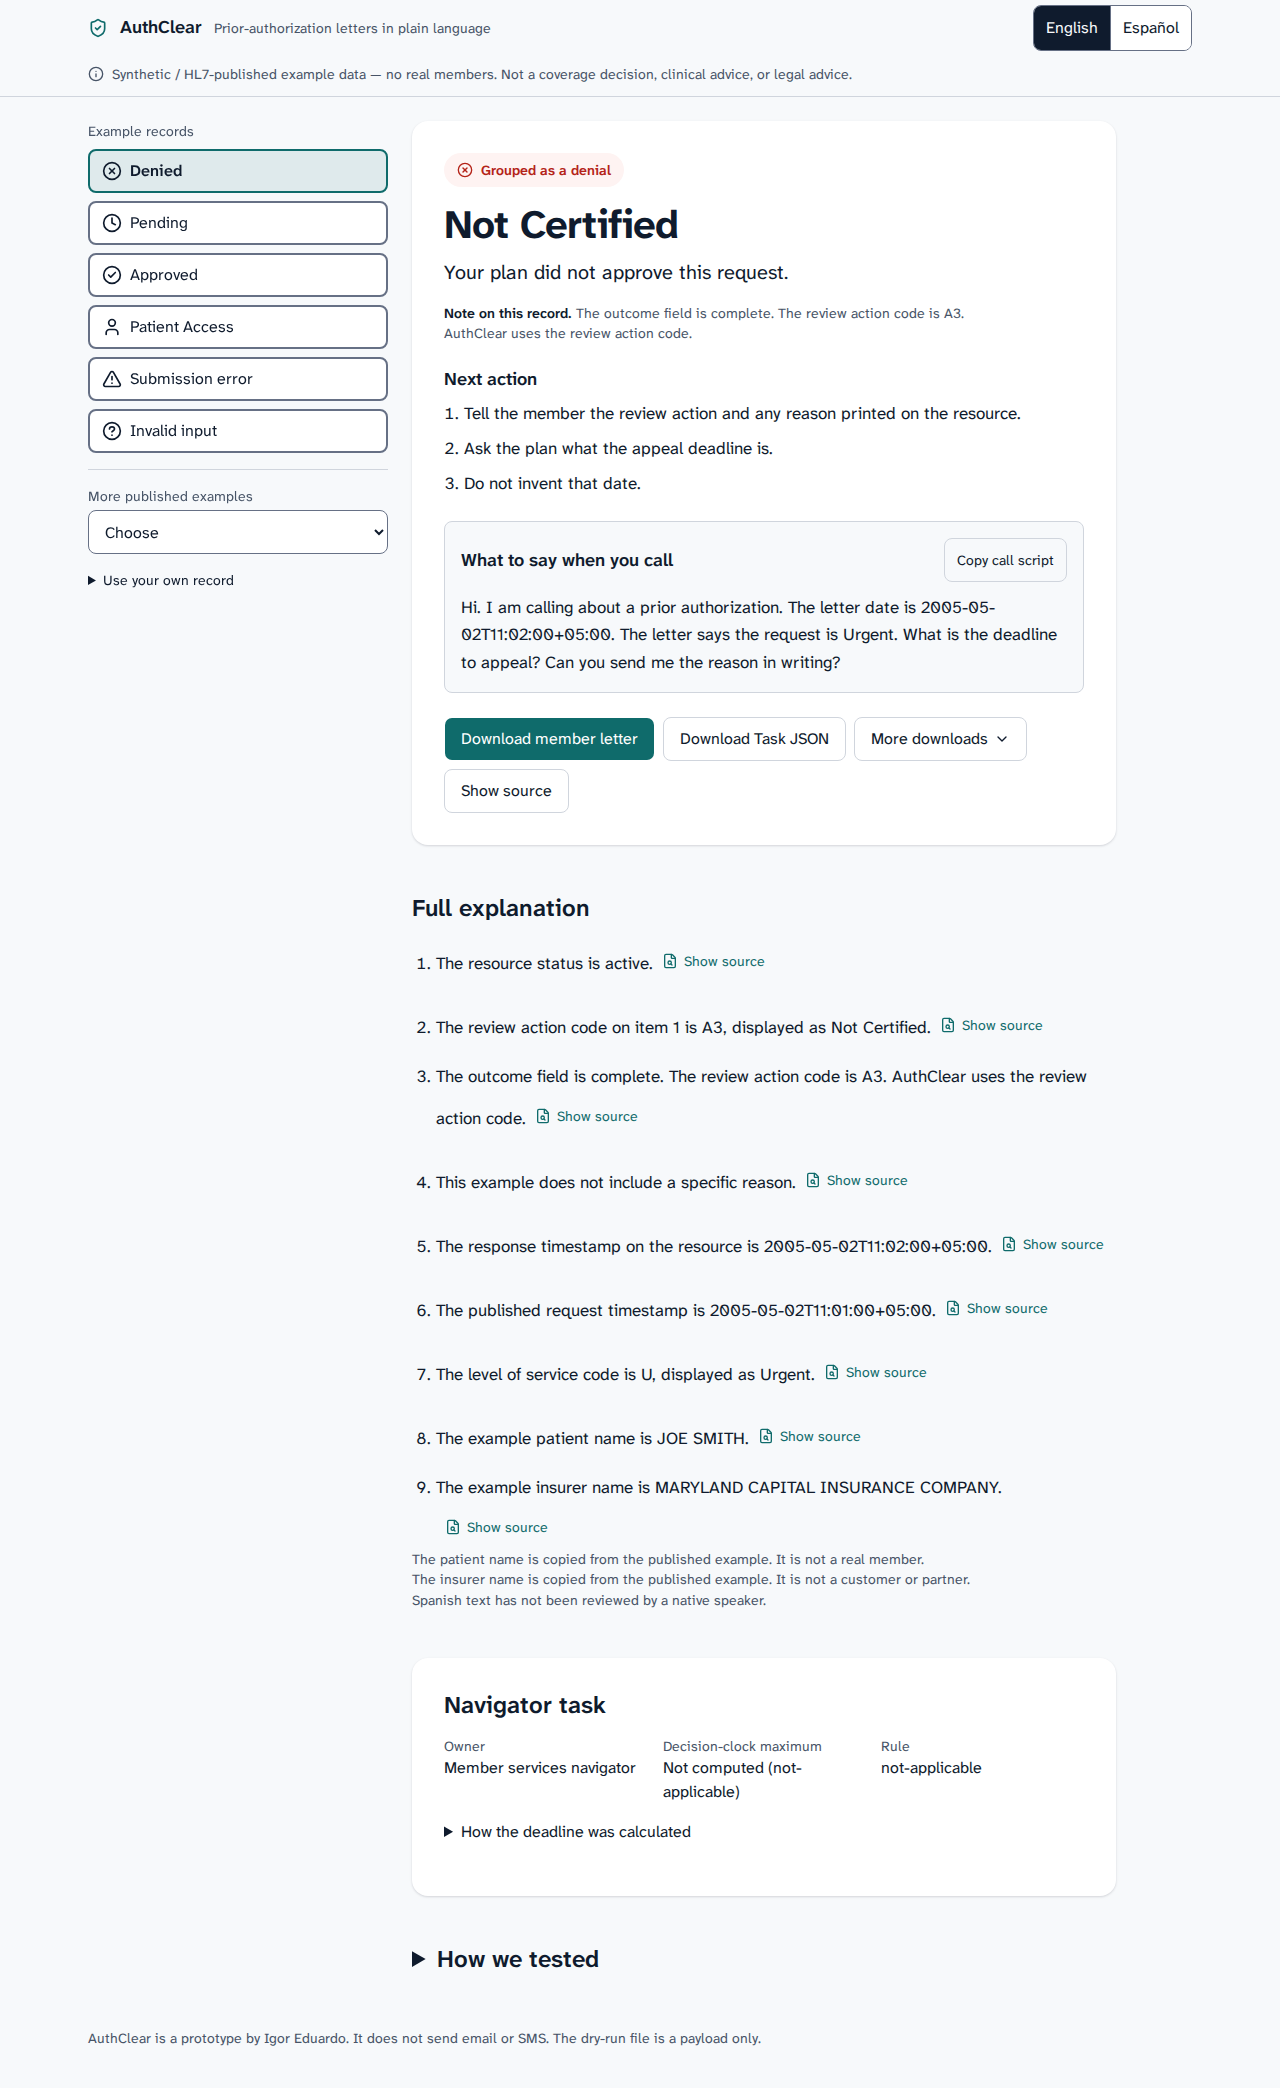
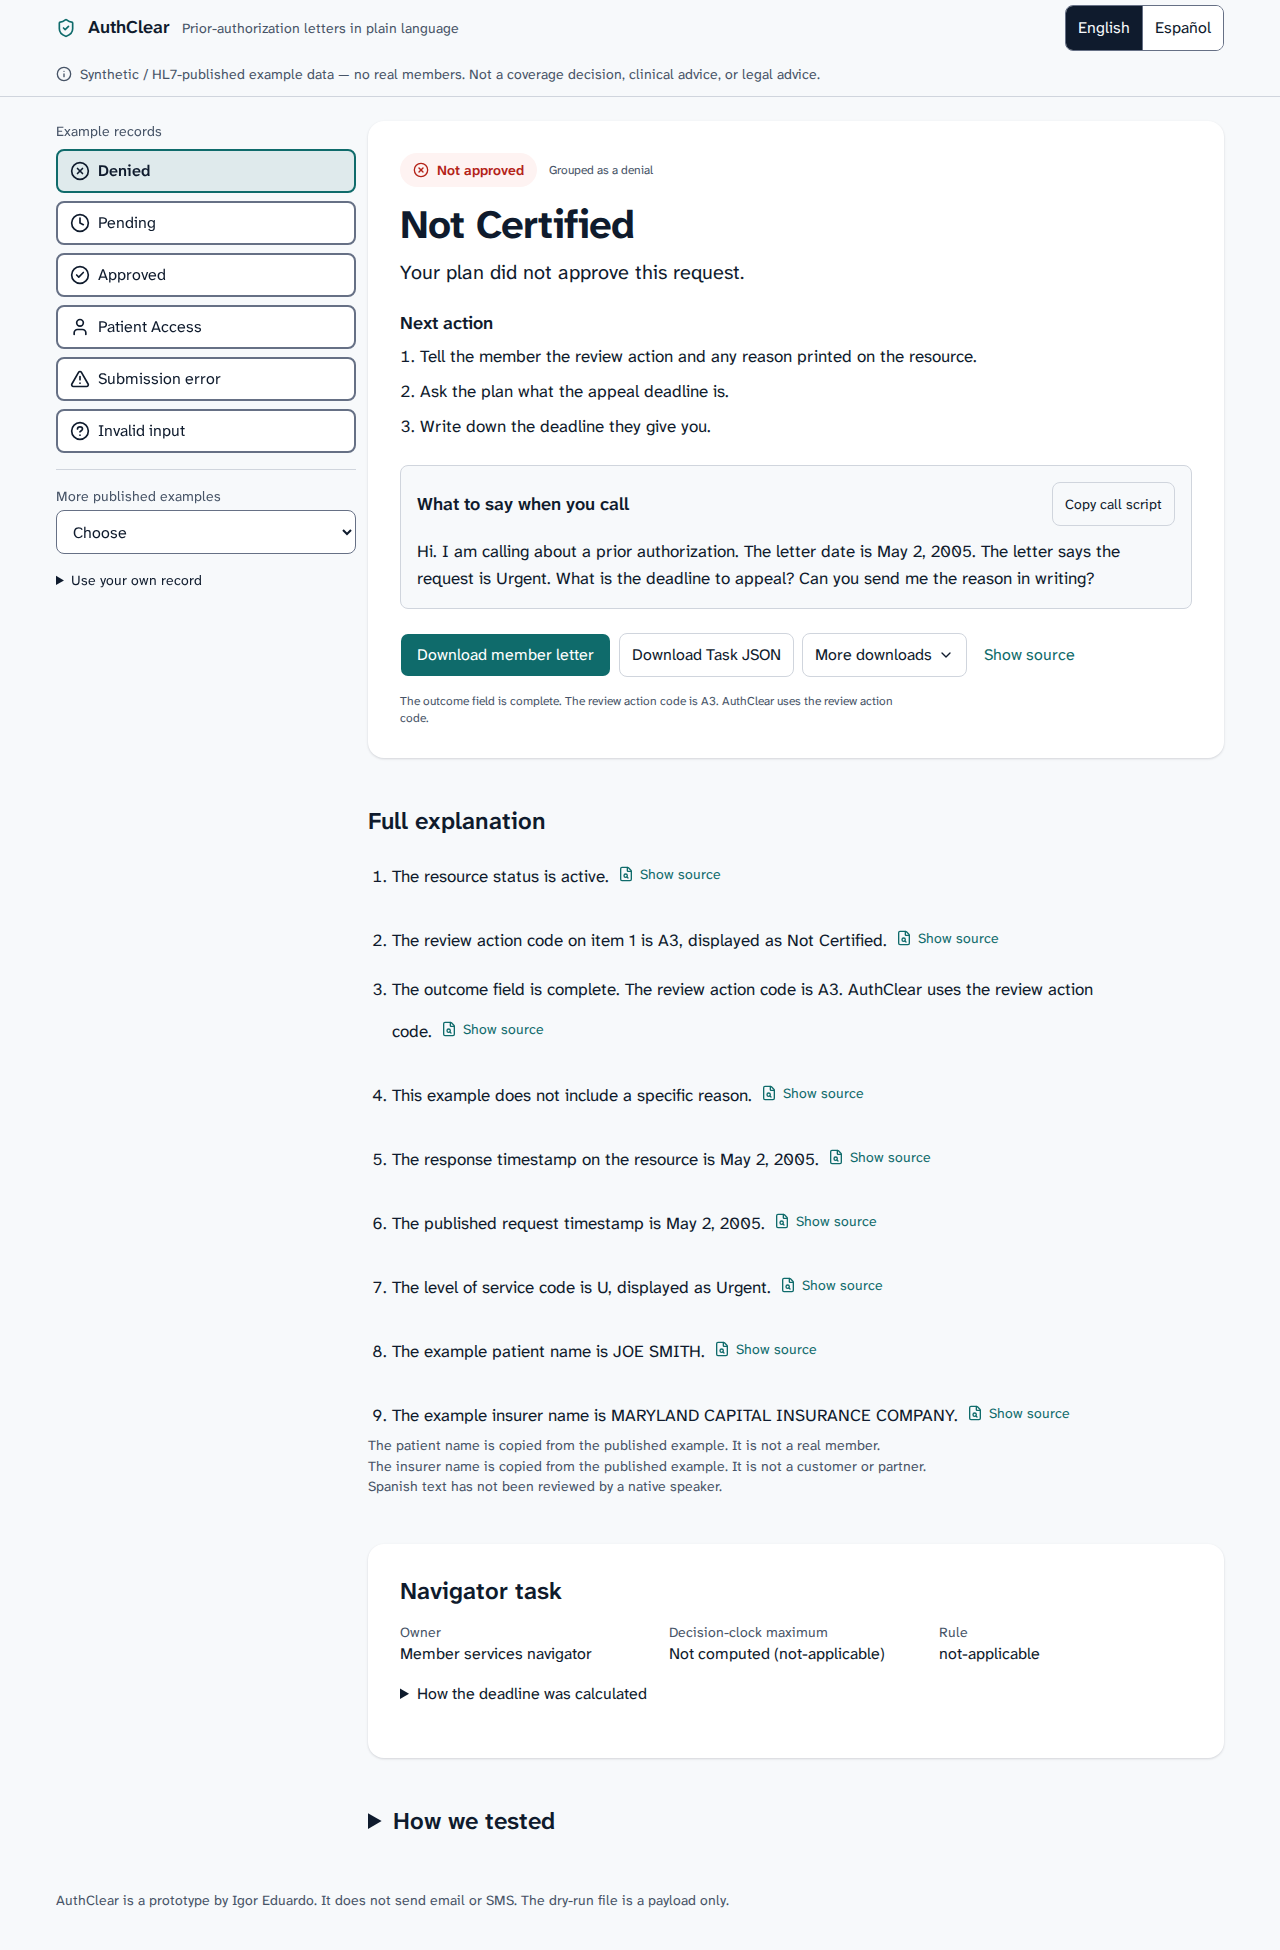
Make the decision card readable at a glance.
Spell dates in words, say Not approved on the status badge, and keep the four actions on one row.

diff --git a/src/components/ResultCard.tsx b/src/components/ResultCard.tsx
@@ -2,7 +2,6 @@ import { useState } from "react";
 import { ChevronDown } from "lucide-react";
 import type { Decision } from "@/lib/types";
 import type { CallScript } from "@/lib/callScript";
-import { formatTimestamp } from "@/lib/formatTime";
 import { Badge } from "@/components/ui/badge";
 import { Button } from "@/components/ui/button";
 import { Card } from "@/components/ui/card";
@@ -52,7 +51,7 @@ export function ResultCard({
   const [copied, setCopied] = useState(false);
   const status = STATUS_STYLE[decision];
   const Icon = status.icon;
-  const humanDue = due ? formatTimestamp(due) : null;
+  const badgeText = decision === "denied" ? (lang === "es" ? "No aprobado" : "Not approved") : kicker;
 
   async function copyScript() {
     try {
@@ -66,29 +65,19 @@ export function ResultCard({
 
   return (
     <Card id="decision" aria-live="polite" className="min-w-0 p-4 md:p-8">
-      <Badge lang={lang} className={`h-auto gap-2 rounded-full px-3 py-1.5 text-sm font-semibold ${status.badge}`}>
-        <Icon aria-hidden="true" />
-        {kicker}
-      </Badge>
+      <div className="flex flex-wrap items-center gap-x-3 gap-y-1">
+        <Badge lang={lang} className={`h-auto gap-2 rounded-full px-3 py-1.5 text-sm font-semibold ${status.badge}`}>
+          <Icon aria-hidden="true" />
+          {badgeText}
+        </Badge>
+        {badgeText !== kicker ? <p className="m-0 text-xs text-muted-foreground">{kicker}</p> : null}
+      </div>
       <h2 className="mt-4 mb-0 text-[2rem] leading-[1.1] font-bold tracking-[-0.02em] md:text-[2.5rem]">
         {headline}
       </h2>
       <p lang={lang} className="mt-3 mb-0 max-w-[65ch] text-xl leading-snug">
         {lead}
       </p>
-      {conflict ? (
-        <p lang={lang} className="mt-4 mb-0 max-w-[65ch] text-sm leading-[1.45] text-muted-foreground">
-          <span className="font-semibold text-foreground">Note on this record. </span>
-          {conflict}
-        </p>
-      ) : null}
-      {due ? (
-        <p className="mt-4 mb-0 text-base">
-          <span className="text-muted-foreground">Decision-clock maximum </span>
-          <span>{humanDue ?? due}</span>
-          {humanDue ? <span className="mt-1 block font-mono text-[0.8125rem] text-muted-foreground">{due}</span> : null}
-        </p>
-      ) : null}
       <div className="mt-6">
         <h3 className="mt-0 mb-2 text-[1.125rem] leading-[1.35] font-semibold">Next action</h3>
         <ol lang={lang} className="my-0 flex max-w-[65ch] list-decimal flex-col gap-2 pl-5 text-[1.0625rem] leading-[1.6] wrap-break-word">
@@ -113,16 +102,16 @@ export function ResultCard({
           </p>
         </div>
       ) : null}
-      <div className="order-1 mt-4 flex flex-col gap-2 md:order-2 md:mt-6 md:flex-row md:flex-wrap">
-        <Button type="button" className="min-h-11 w-full px-4 text-base md:w-auto" onClick={onLetter}>
+      <div className="order-1 mt-4 flex flex-col gap-2 md:order-2 md:mt-6 md:flex-row md:flex-nowrap md:items-center">
+        <Button type="button" className="min-h-11 w-full shrink-0 px-4 text-base md:w-auto" onClick={onLetter}>
           Download member letter
         </Button>
-        <Button type="button" variant="outline" className="min-h-11 bg-surface px-4 text-base" onClick={onTask}>
+        <Button type="button" variant="outline" className="min-h-11 shrink-0 bg-surface px-3 text-base" onClick={onTask}>
           Download Task JSON
         </Button>
         <DropdownMenu>
           <DropdownMenuTrigger asChild>
-            <Button type="button" variant="outline" className="min-h-11 bg-surface px-4 text-base">
+            <Button type="button" variant="outline" className="min-h-11 shrink-0 bg-surface px-3 text-base">
               More downloads
               <ChevronDown aria-hidden="true" />
             </Button>
@@ -139,10 +128,16 @@ export function ResultCard({
             </DropdownMenuItem>
           </DropdownMenuContent>
         </DropdownMenu>
-        <Button type="button" variant="outline" className="min-h-11 bg-surface px-4 text-base" onClick={onShowSource}>
+        <Button type="button" variant="ghost" className="min-h-11 shrink-0 px-2 text-base text-primary" onClick={onShowSource}>
           Show source
         </Button>
       </div>
+      {conflict ? (
+        <p lang={lang} className="order-3 mt-4 mb-0 max-w-[65ch] text-xs leading-snug text-muted-foreground">
+          {conflict}
+        </p>
+      ) : null}
+      {due ? <p className="order-3 mt-1 mb-0 text-xs text-muted-foreground">{due}</p> : null}
     </Card>
   );
 }

diff --git a/src/App.tsx b/src/App.tsx
@@ -8,7 +8,7 @@ import { buildExports } from "@/lib/task";
 import { buildCallScript } from "@/lib/callScript";
 import { plainLead } from "@/lib/plain";
 import { splitSteps } from "@/lib/steps";
-import { formatTimestamp } from "@/lib/formatTime";
+import { formatPlainDate, humanizeTimestamps, memberFacingStep } from "@/lib/formatTime";
 import { withLetterStyles } from "@/lib/letterStyle";
 import type { Pointer } from "@/lib/types";
 import summary from "@/generated/eval-summary.json";
@@ -70,7 +70,7 @@ export function App() {
         Skip to decision
       </a>
       <header className="border-b border-border bg-background">
-        <div className="mx-auto flex h-14 max-w-6xl items-center gap-3 px-4 md:px-6">
+        <div className="mx-auto flex h-14 max-w-[76rem] items-center gap-3 px-4 md:px-6">
           <ShieldCheck className="size-5 shrink-0 text-primary" aria-hidden="true" />
           <h1 className="m-0 text-[1.125rem] leading-[1.3] font-semibold">AuthClear</h1>
           <p className="m-0 hidden text-sm text-muted-foreground md:block">
@@ -95,7 +95,7 @@ export function App() {
             </button>
           </div>
         </div>
-        <p className="mx-auto mt-0 mb-0 flex max-w-6xl items-start gap-2 px-4 pt-2 pb-3 text-sm leading-[1.45] text-muted-foreground md:px-6">
+        <p className="mx-auto mt-0 mb-0 flex max-w-[76rem] items-start gap-2 px-4 pt-2 pb-3 text-sm leading-[1.45] text-muted-foreground md:px-6">
           <Info className="mt-0.5 size-4 shrink-0" aria-hidden="true" />
           <span>
             Synthetic / HL7-published example data — no real members. Not a coverage decision, clinical advice, or
@@ -103,7 +103,7 @@ export function App() {
           </span>
         </p>
       </header>
-      <main className="mx-auto grid w-full max-w-6xl min-w-0 gap-4 px-4 py-4 md:grid-cols-[300px_minmax(0,44rem)] md:gap-6 md:px-6 md:py-6">
+      <main className="mx-auto grid w-full max-w-[76rem] min-w-0 gap-4 px-4 py-4 md:grid-cols-[280px_minmax(0,1fr)] md:gap-8 md:px-6 md:py-6">
         <ExampleRail
           caseId={customResource === undefined ? caseId : ""}
           narrow={narrow}
@@ -144,7 +144,7 @@ export function App() {
               <ol lang={lang} className="my-0 flex list-decimal flex-col gap-4 pl-6">
                 {view.notice.sentences.map((sentence) => (
                   <li key={sentence.id} className="max-w-[65ch] text-[1.0625rem] leading-[1.6]">
-                    <span>{sentence.text}</span>
+                    <span>{humanizeTimestamps(sentence.text, lang)}</span>
                     <Button
                       type="button"
                       variant="ghost"
@@ -186,12 +186,7 @@ export function App() {
                 <dt className="text-sm text-muted-foreground">Decision-clock maximum</dt>
                 <dd className="m-0 text-base">
                   {view.action.deadline.due ? (
-                    <>
-                      <span>{formatTimestamp(view.action.deadline.due) ?? view.action.deadline.due}</span>
-                      <span className="mt-1 block font-mono text-[0.8125rem] text-muted-foreground">
-                        {view.action.deadline.due}
-                      </span>
-                    </>
+                    <span>{formatPlainDate(view.action.deadline.due, lang) ?? view.action.deadline.due}</span>
                   ) : (
                     `Not computed (${view.action.deadline.ruleId})`
                   )}
@@ -263,7 +258,7 @@ export function App() {
           </details>
         </div>
       </main>
-      <footer className="mx-auto max-w-6xl px-4 pt-4 pb-10 text-sm text-muted-foreground md:px-6">
+      <footer className="mx-auto max-w-[76rem] px-4 pt-4 pb-10 text-sm text-muted-foreground md:px-6">
         <p>AuthClear is a prototype by Igor Eduardo. It does not send email or SMS. The dry-run file is a payload only.</p>
       </footer>
       <SourceSheet
@@ -315,7 +310,7 @@ function buildView(demo: DemoCase, lang: Lang) {
     exports,
     lead: plainLead(extraction, lang),
     script: buildCallScript(extraction, lang),
-    steps: splitSteps(lang === "es" ? action.summaryEs : action.summaryEn),
+    steps: splitSteps(lang === "es" ? action.summaryEs : action.summaryEn).map((step) => memberFacingStep(step, lang)),
     conflict: conflictSentence?.text ?? null,
   };
 }

diff --git a/test/plain-copy.test.ts b/test/plain-copy.test.ts
@@ -2,7 +2,7 @@ import { describe, expect, it } from "vitest";
 import { CASES } from "../src/lib/cases";
 import { buildCallScript } from "../src/lib/callScript";
 import { extract } from "../src/lib/extract";
-import { formatTimestamp } from "../src/lib/formatTime";
+import { formatPlainDate, formatTimestamp } from "../src/lib/formatTime";
 import { withLetterStyles } from "../src/lib/letterStyle";
 import { getByPath } from "../src/lib/path";
 import { leadCatalog, plainLead } from "../src/lib/plain";
@@ -54,11 +54,18 @@ describe("call script", () => {
         if (!extraction.urgent) expect(script.lines.some((line) => line.id === "urgent")).toBe(false);
 
         const allowed = new Set(script.lines.flatMap((line) => (line.pointer?.value ? [line.pointer.value] : [])));
+        expect(script.text).not.toMatch(/\d{4}-\d{2}-\d{2}T/);
         for (const line of script.lines) {
           if (!line.pointer) continue;
           expect(line.pointer.path.length).toBeGreaterThan(0);
-          expect(line.text).toContain(String(line.pointer.value));
           expect(readPointer(demo, line.pointer)).toBe(line.pointer.value);
+          if (line.id === "date") {
+            const spoken = formatPlainDate(String(line.pointer.value), lang);
+            expect(spoken).not.toBeNull();
+            expect(line.text).toContain(spoken!);
+          } else {
+            expect(line.text).toContain(String(line.pointer.value));
+          }
         }
         for (const value of candidateValues(extraction)) {
           if (script.text.includes(value)) expect(allowed.has(value)).toBe(true);
@@ -78,8 +85,10 @@ describe("call script", () => {
 });
 
 describe("timestamp formatting", () => {
-  it("keeps the offset printed on the record", () => {
+  it("keeps the offset printed on the record and spells the calendar date", () => {
     expect(formatTimestamp("2005-05-05T11:01:00+05:00")).toBe("Thu, May 5, 2005, 11:01 AM (UTC+5)");
+    expect(formatPlainDate("2005-05-02T11:02:00+05:00", "en")).toBe("May 2, 2005");
+    expect(formatPlainDate("2005-05-02T11:02:00+05:00", "es")).toBe("2 de mayo de 2005");
   });
 });
 

diff --git a/src/lib/formatTime.ts b/src/lib/formatTime.ts
@@ -19,6 +19,48 @@ export function formatTimestamp(iso: string): string | null {
   return `${weekday}, ${monthName} ${day}, ${year}, ${hour12}:${minute} ${ampm} (${zoneLabel(offset)})`;
 }
 
+const MONTHS_ES = [
+  "enero",
+  "febrero",
+  "marzo",
+  "abril",
+  "mayo",
+  "junio",
+  "julio",
+  "agosto",
+  "septiembre",
+  "octubre",
+  "noviembre",
+  "diciembre",
+];
+
+const ISO_TIMESTAMP = /\d{4}-\d{2}-\d{2}T\d{2}:\d{2}(?::\d{2})?(?:\.\d+)?(?:Z|[+-]\d{2}:\d{2})/g;
+
+/** Calendar date from an ISO timestamp, for example "May 2, 2005". */
+export function formatPlainDate(iso: string, lang: "en" | "es" = "en"): string | null {
+  const match = iso.match(/^(\d{4})-(\d{2})-(\d{2})T/);
+  if (!match) return null;
+  const year = Number(match[1]);
+  const month = Number(match[2]);
+  const day = Number(match[3]);
+  if (month < 1 || month > 12 || day < 1 || day > 31) return null;
+  if (lang === "es") return `${day} de ${MONTHS_ES[month - 1]} de ${year}`;
+  return `${MONTHS[month - 1]} ${day}, ${year}`;
+}
+
+/** Replace raw ISO timestamps with a calendar date. Unparsed timestamps stay unchanged. */
+export function humanizeTimestamps(text: string, lang: "en" | "es"): string {
+  return text.replace(ISO_TIMESTAMP, (iso) => formatPlainDate(iso, lang) ?? iso);
+}
+
+/** Member-facing wording for a navigator summary step. */
+export function memberFacingStep(step: string, lang: "en" | "es"): string {
+  const spoken = step
+    .replace("Do not invent that date.", "Write down the deadline they give you.")
+    .replace("No invente esa fecha.", "Anote la fecha límite que le den.");
+  return humanizeTimestamps(spoken, lang);
+}
+
 function zoneLabel(offset: string): string {
   if (offset === "Z") return "UTC";
   const sign = offset[0] ?? "+";

diff --git a/src/lib/callScript.ts b/src/lib/callScript.ts
@@ -1,3 +1,4 @@
+import { formatPlainDate } from "./formatTime";
 import type { Extraction, Pointer } from "./types";
 
 export interface ScriptLine {
@@ -30,10 +31,11 @@ export function buildCallScript(extraction: Extraction, lang: "en" | "es"): Call
         pointer: fieldPointer(extraction.authId),
       });
     }
-    if (extraction.responseCreated) {
+    const englishDate = extraction.responseCreated ? formatPlainDate(extraction.responseCreated.value, "en") : null;
+    if (extraction.responseCreated && englishDate) {
       lines.push({
         id: "date",
-        text: `The letter date is ${extraction.responseCreated.value}.`,
+        text: `The letter date is ${englishDate}.`,
         pointer: fieldPointer(extraction.responseCreated),
       });
     }
@@ -78,10 +80,11 @@ export function buildCallScript(extraction: Extraction, lang: "en" | "es"): Call
         pointer: fieldPointer(extraction.authId),
       });
     }
-    if (extraction.responseCreated) {
+    const spanishDate = extraction.responseCreated ? formatPlainDate(extraction.responseCreated.value, "es") : null;
+    if (extraction.responseCreated && spanishDate) {
       lines.push({
         id: "date",
-        text: `La fecha de la carta es ${extraction.responseCreated.value}.`,
+        text: `La fecha de la carta es ${spanishDate}.`,
         pointer: fieldPointer(extraction.responseCreated),
       });
     }

diff --git a/src/lib/letterStyle.ts b/src/lib/letterStyle.ts
@@ -1,3 +1,5 @@
+import { humanizeTimestamps } from "./formatTime";
+
 const LETTER_STYLE = `<style>
     body { margin: 0; padding: 32px; background: #F7F9FB; color: #0F1B2D; font-family: "Atkinson Hyperlegible Next", "Segoe UI", "Helvetica Neue", Helvetica, Arial, sans-serif; font-size: 17px; line-height: 1.6; }
     h1 { margin: 0 0 8px; font-size: 40px; line-height: 1.1; font-weight: 700; letter-spacing: -0.02em; }
@@ -6,8 +8,9 @@ const LETTER_STYLE = `<style>
     a { color: #0F6B6B; }
   </style>`;
 
-/** Add the app tokens to a downloaded member letter. The letter text is unchanged. */
+/** Add the app tokens to a downloaded member letter and spell dates in words. */
 export function withLetterStyles(html: string): string {
-  if (html.includes("</head>")) return html.replace("</head>", `${LETTER_STYLE}</head>`);
-  return `${LETTER_STYLE}${html}`;
+  const lang = html.includes('lang="es"') ? "es" : "en";
+  const styled = html.includes("</head>") ? html.replace("</head>", `${LETTER_STYLE}</head>`) : `${LETTER_STYLE}${html}`;
+  return humanizeTimestamps(styled, lang);
 }
